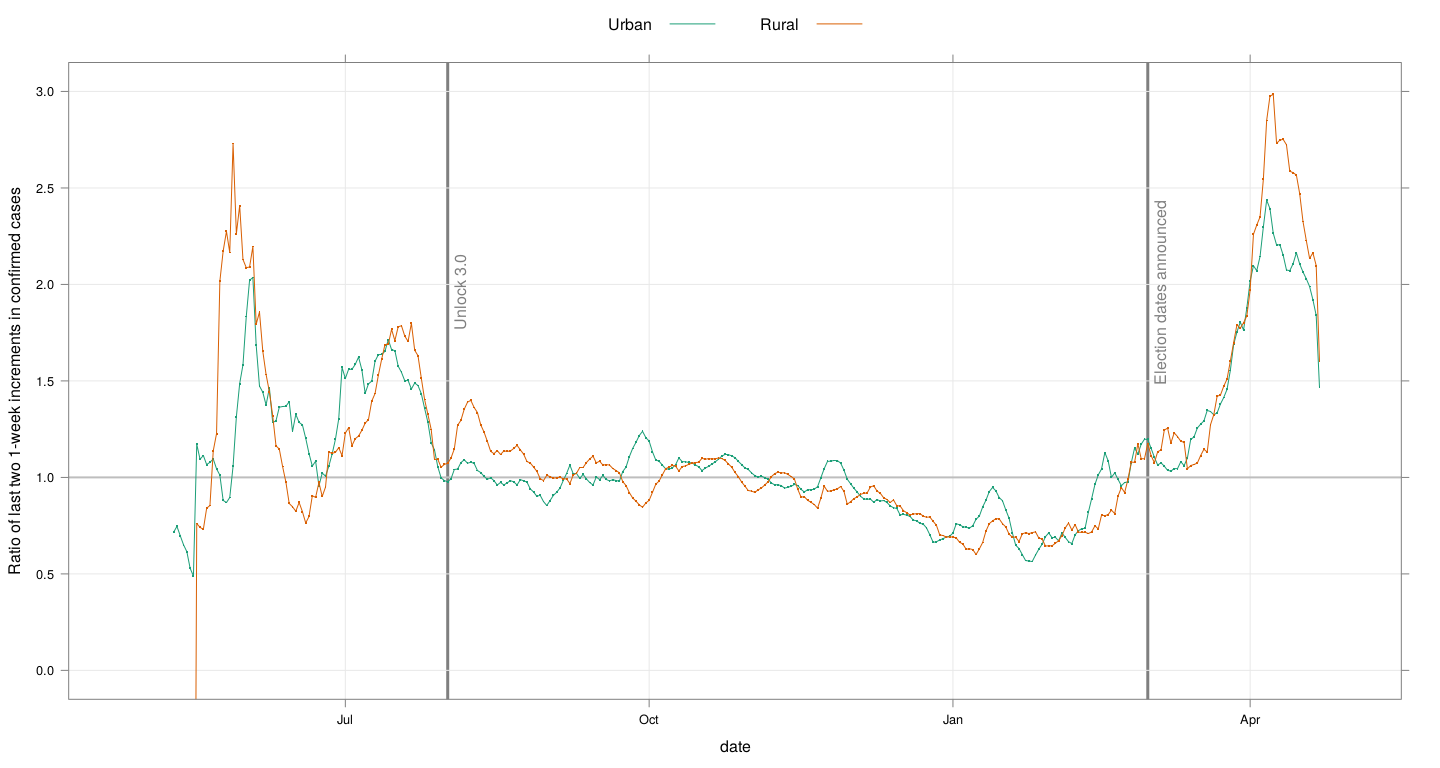
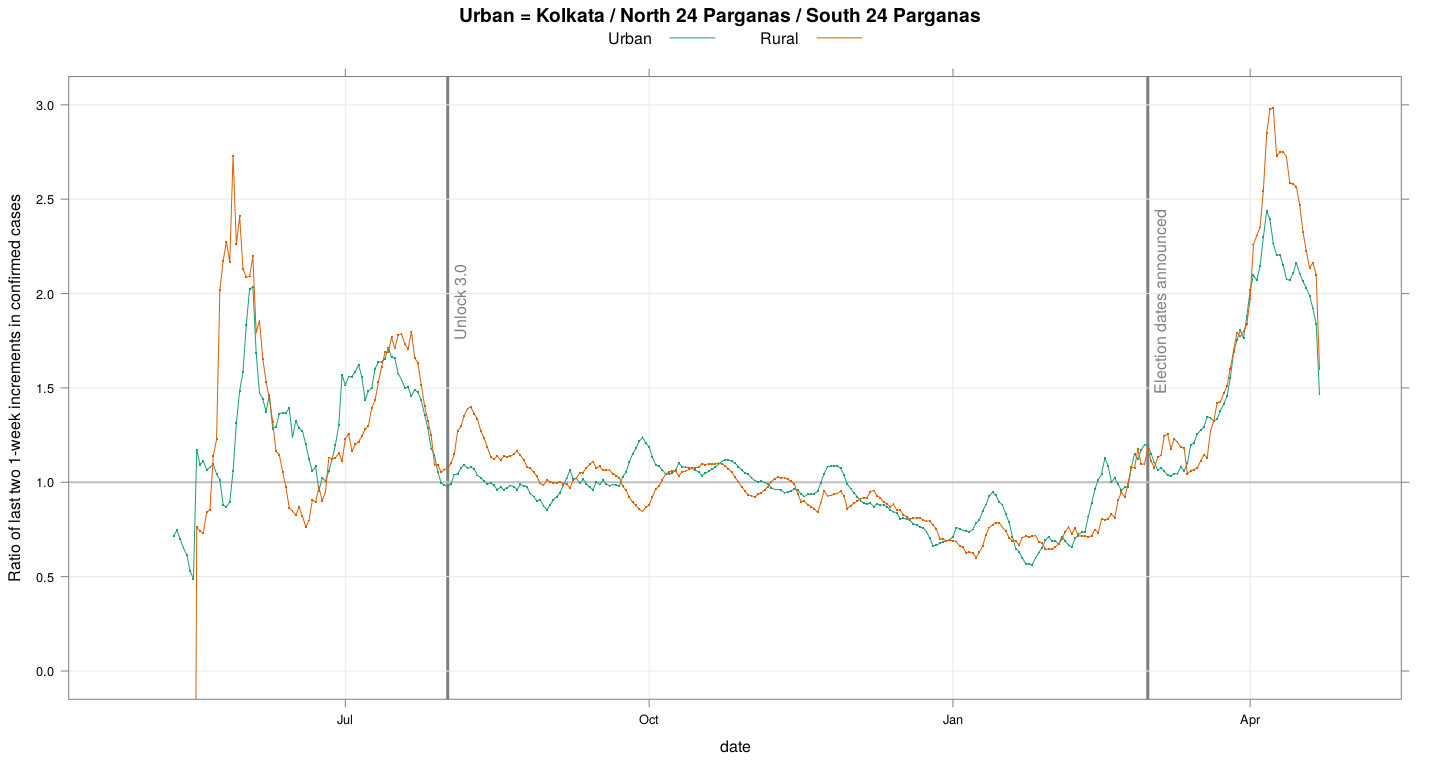
improve spacing

diff --git a/covid-19/increment-ratio.html b/covid-19/increment-ratio.html
@@ -33,14 +33,14 @@ mathjax: true
 
 ---
 
-# Delhi, Mumbai, Kolkata, Bengaluru
+# Cities: Bengaluru, Chennai, Delhi, Kolkata, Mumbai
 
 
 ![plot of chunk unnamed-chunk-2](figures/incratio-unnamed-chunk-2-1.png)
 
 ---
 
-# Delhi, Maharashtra, Karnataka, West Bengal
+# States: Delhi, Karnataka, Maharashtra, West Bengal
 
 ![plot of chunk unnamed-chunk-3](figures/incratio-unnamed-chunk-3-1.png)
 
@@ -141,8 +141,6 @@ layout: false
 
 # West Bengal
 
-- Urban = Kolkata / North 24 Parganas / South 24 Parganas
-
 
 ![plot of chunk unnamed-chunk-11](figures/incratio-unnamed-chunk-11-1.png)
 
@@ -150,7 +148,7 @@ layout: false
 
 # Tamil Nadu 
 
-- Urban = Chennai / Coimbatore / Chengalpattu / Thiruvallur / Salem / Kancheepuram
+
 
 ![plot of chunk unnamed-chunk-12](figures/incratio-unnamed-chunk-12-1.png)
 
@@ -159,7 +157,7 @@ layout: false
 
 # Kerala
 
-Urban = Ernakulam / Kozhikode / Malappuram / Thiruvananthapuram / Thrissur
+
 
 ![plot of chunk unnamed-chunk-13](figures/incratio-unnamed-chunk-13-1.png)
 
@@ -167,7 +165,7 @@ Urban = Ernakulam / Kozhikode / Malappuram / Thiruvananthapuram / Thrissur
 
 # Maharashtra
 
-Urban = Pune / Mumbai / Thane / Nagpur
+
 
 ![plot of chunk unnamed-chunk-14](figures/incratio-unnamed-chunk-14-1.png)
 
@@ -175,7 +173,7 @@ Urban = Pune / Mumbai / Thane / Nagpur
 
 # Karnataka
 
-Urban = Bengaluru Urban / Mysuru / Ballari
+
 
 ![plot of chunk unnamed-chunk-15](figures/incratio-unnamed-chunk-15-1.png)
 
